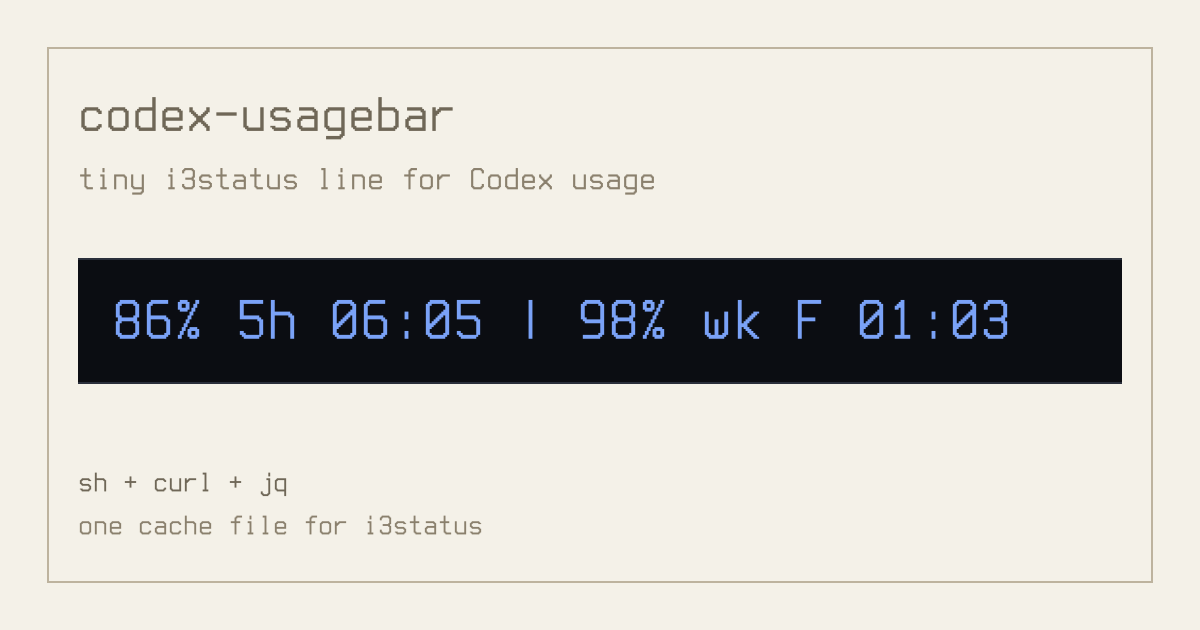
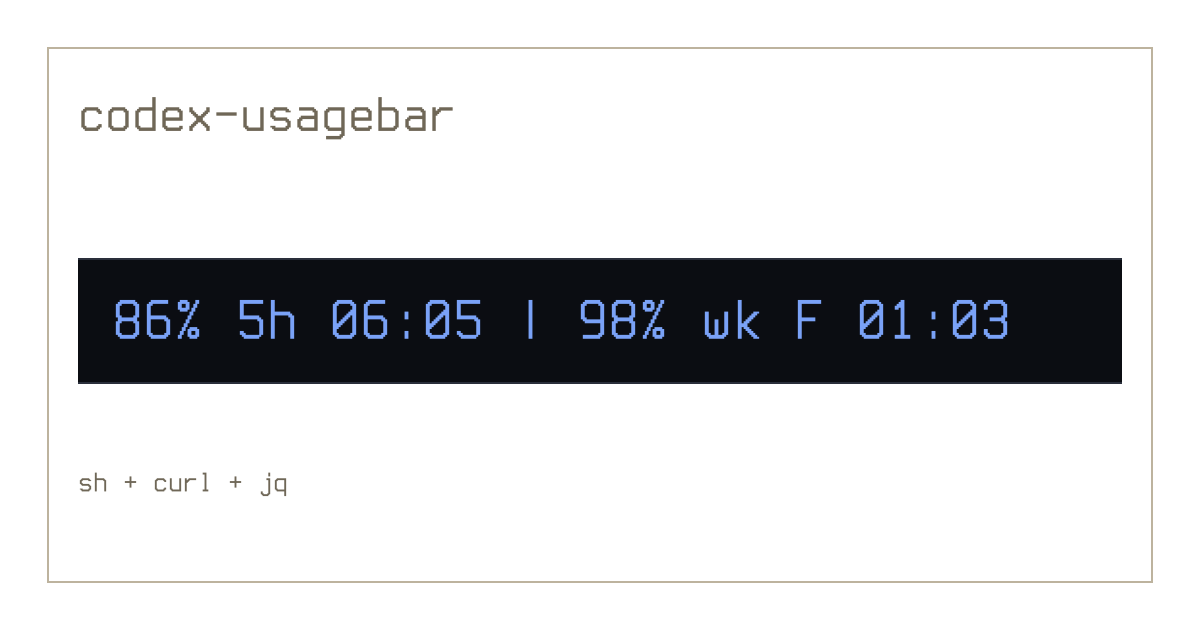
Trim README duplicate and OG copy

Changed region(s): [[0.0617, 0.2714, 0.555, 0.3016], [0.0617, 0.8143, 0.4008, 0.8746]]

diff --git a/README.md b/README.md
@@ -6,9 +6,7 @@ Tiny status widget for showing Codex `/status` usage limits in `i3status`.
 
 <img src="assets/codex-usagebar-bar.png" alt="codex-usagebar output cropped to the i3status bar" width="980">
 
-```text
-97% 5h 06:03 | 99% wk F 01:03
-```
+<!-- bar text: 97% 5h 06:03 | 99% wk F 01:03 -->
 
 ## About
 
@@ -111,9 +109,7 @@ file.
 
 The normal line is:
 
-```text
-97% 5h 06:03 | 99% wk F 01:03
-```
+<!-- bar text: 97% 5h 06:03 | 99% wk F 01:03 -->
 
 That means:
 
